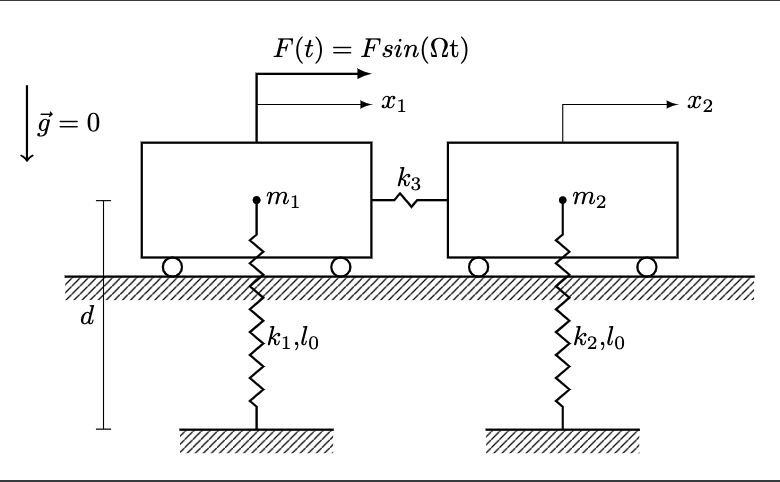
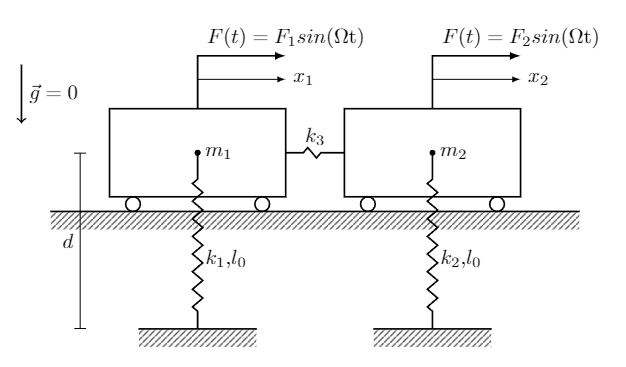
Mechanical systems development
On branch master
Your branch is behind 'origin/master' by 1 commit, and can be fast-forwarded.
  (use "git pull" to update your local branch)

Changes to be committed:
	modified:   models/images/ForcedTwoNonLinearTrolleys.png - scheme fixed
	new file:   models/images/ForcedWinch.png
	modified:   models/mechanics/principles.py - system fixed
	modified:   models/mechanics/trolley.py - system fixed

diff --git a/models/mechanics/trolley.py b/models/mechanics/trolley.py
@@ -2009,7 +2009,8 @@ class DDoFTwoNonLinearTrolleys(NonlinearComposedSystem):
     x2=dynamicsymbols('x2')
     x=dynamicsymbols('x')
     qs=dynamicsymbols('x1, x2')
-    F=Symbol('F', positive=True)
+    F1=Symbol('F_1', positive=True)
+    F2=Symbol('F_2', positive=True)
     Omega=Symbol('Omega', positive=True)
    
     def __init__(self,
@@ -2026,7 +2027,8 @@ class DDoFTwoNonLinearTrolleys(NonlinearComposedSystem):
                  x2=None,
                  x=None,
                  qs=None,
-                 F=None,
+                 F1=None,
+                 F2=None,
                  Omega=None,
                  **kwargs):
 
@@ -2038,7 +2040,8 @@ class DDoFTwoNonLinearTrolleys(NonlinearComposedSystem):
         if d is not None: self.d = d
         if l_0 is not None: self.l_0 = l_0
         if Omega is not None: self.Omega = Omega
-        if F is not None: self.F = F
+        if F1 is not None: self.F1 = F1
+        if F2 is not None: self.F2 = F2
         if x is not None: self.x = x
         if x1 is not None: self.x1 = x1
         if x2 is not None: self.x2 = x2
@@ -2058,15 +2061,16 @@ class DDoFTwoNonLinearTrolleys(NonlinearComposedSystem):
         self._trolley2 = MaterialPoint(self.m2, self.x2, qs=self.qs)
         self._spring2 = Spring(self.k2, pos1=(sqrt(self.x2**2 + self.d**2) - self.l_0), qs=self.qs)
         self._spring12 = Spring(self.k3, self.x1, self.x2,qs=self.qs)
-        self._force = Force(self.F*sin(self.Omega*self.ivar), self.x1, qs=self.qs)
-
+        self._force1 = Force(self.F1*sin(self.Omega*self.ivar), self.x1, qs=self.qs)
+        self._force2 = Force(self.F2*sin(self.Omega*self.ivar), self.x2, qs=self.qs)
 
         components['_trolley1'] = self._trolley1
         components['_trolley2'] = self._trolley2
         components['_spring1'] = self._spring1
         components['_spring2'] = self._spring2
         components['_spring12'] = self._spring12
-        components['_force'] = self._force
+        components['_force1'] = self._force1
+        components['_force2'] = self._force2
         
         return components
 
@@ -2081,9 +2085,11 @@ class DDoFTwoNonLinearTrolleys(NonlinearComposedSystem):
             self.k1: [S.One * k0 * no for no in range(10,20)],
             self.k2: [S.One * k0 * no for no in range(10,20)],
             self.k3: [S.One * k0 * no for no in range(10,20)],
-            self.F: [S.One * F0 * no for no in range(5,15)],
+            self.F1: [S.One * F0 * no for no in range(5,15)],
+            self.F2: [S.One * F0 * no for no in range(5,15)],
             self.x1: [self.x, 0],
             self.x2: [self.x, S.Zero],
+
         }
 
         return default_data_dict
@@ -2116,17 +2122,24 @@ class DDoFTwoNonLinearTrolleys(NonlinearComposedSystem):
 
     def static_force(self):
         data=self._given_data
-        ans=self.linearized().dynamic_force()
+        ans=self.dynamic_force()
         free_coeff=ans.subs({cos(self.Omega*self.ivar):0, sin(self.Omega*self.ivar):0}).subs(data)
         return (free_coeff)
 
+#     def dynamic_force(self):
+
+#         data=self._given_data
+#         amps = self._fodes_system.steady_solution.as_dict()
+
+#         return (self.components['_spring12'].force().subs(amps)).subs(data).expand().doit()
+
     def dynamic_force(self):
 
-        amps = self.linearized()._fodes_system.steady_solution.as_dict()
-        #force = self.components['_spring_l'].force().doit().expand()#.doit()
         data=self._given_data
+        amps = self.linearized().subs(data)._fodes_system.steady_solution.as_dict()
 
-        return (self.components['_spring1'].force().subs(amps)).subs(data).expand().doit()
+
+        return (self.components['_spring12'].force().subs(data).subs(amps)).expand().doit()
 
 class VariableMassTrolleyWithPendulum(ComposedSystem):
 

diff --git a/models/mechanics/principles.py b/models/mechanics/principles.py
@@ -989,7 +989,7 @@ class CrankSystem(ComposedSystem):
     
 class Winch(ComposedSystem):
 
-    scheme_name = 'sdof_winch.PNG'
+    scheme_name = 'ForcedWinch.png'
     real_name = 'winch_mechanism_real.PNG'
 
     r=Symbol('r', positive=True)
@@ -998,8 +998,8 @@ class Winch(ComposedSystem):
     g=Symbol('g', positive=True)
     ivar=Symbol('t')
     phi=dynamicsymbols('\\varphi')
-    F=Symbol('F', positice=True)
-    Omega=Symbol('Omega', positice=True)
+    F=Symbol('F', positive=True)
+    Omega=Symbol('Omega', positive=True)
 
     def __init__(self,
                  r=None,
@@ -1036,7 +1036,7 @@ class Winch(ComposedSystem):
         self.material_point_1 = MaterialPoint(self.m, self.x, qs=self.qs)
         self.material_point_2 = MaterialPoint(self.m, self.y, qs=self.qs)
         self.gravity = GravitationalForce(self.m, self.g, pos1=-self.y, qs=self.qs)
-        self.force= Force(self.F*self.r*sin(self.Omega*self.ivar), self.phi, self.qs)
+        self.force= Force(self.F*self.l*sin(self.Omega*self.ivar), self.phi, self.qs)
 
         components['_material_point_1'] = self.material_point_1
         components['_material_point_2'] = self.material_point_2
@@ -1066,3 +1066,35 @@ class Winch(ComposedSystem):
             self.F: [S.One * no * F0 for no in range(5,10)],
         }
         return default_data_dict
+    
+    
+    def force_in_cable(self,op_point=0):
+
+        data=self._given_data
+        dyn_sys=self.subs(data)
+        dyn_sys_lin=dyn_sys.linearized()
+        phi=dyn_sys_lin._fodes_system.steady_solution[0]
+
+#         m=data[self.m]
+#         l=data[self.l]
+
+        op_point = pi*op_point  #quick workaround - wrong implementation
+
+        force_in_cable = self.m*self.g*(1-S.Half*(phi - op_point )**2) + self.m * self.l * (phi  - op_point).diff(self.ivar)**2
+        force_subs=force_in_cable.subs(data)#.subs({self.Omega:0.999*dyn_sys_lin.natural_frequencies()[0]})
+
+        return force_subs.doit().expand()
+    
+    def sin_coeff(self):
+        
+        phi=self.phi
+        sin_coeff=self._eoms[0].expand().coeff(sin(phi)) ## eoms[0]: m * L**2 * phi" + m * g * L * sin(phi)  == 0
+
+        return sin_coeff
+        
+    def cos_coeff(self):
+        
+        phi=self.phi
+        cos_coeff=self._eoms[0].expand().coeff(cos(phi))
+        
+        return cos_coeff
